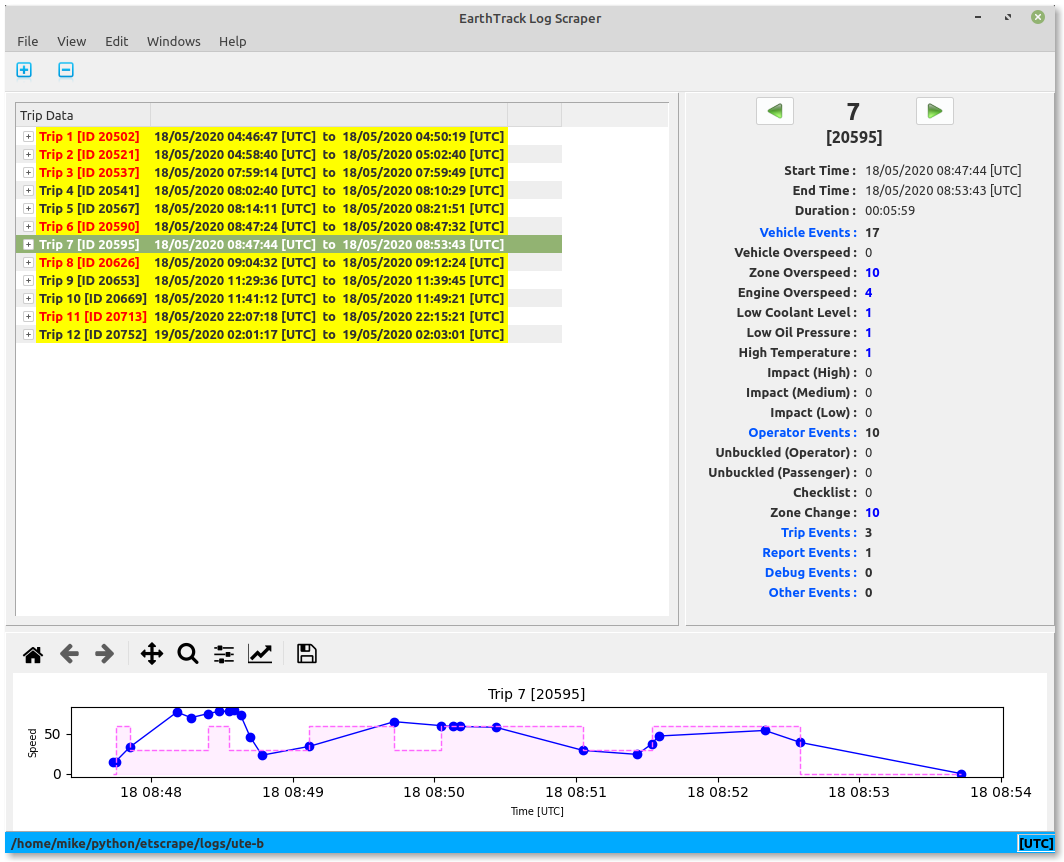
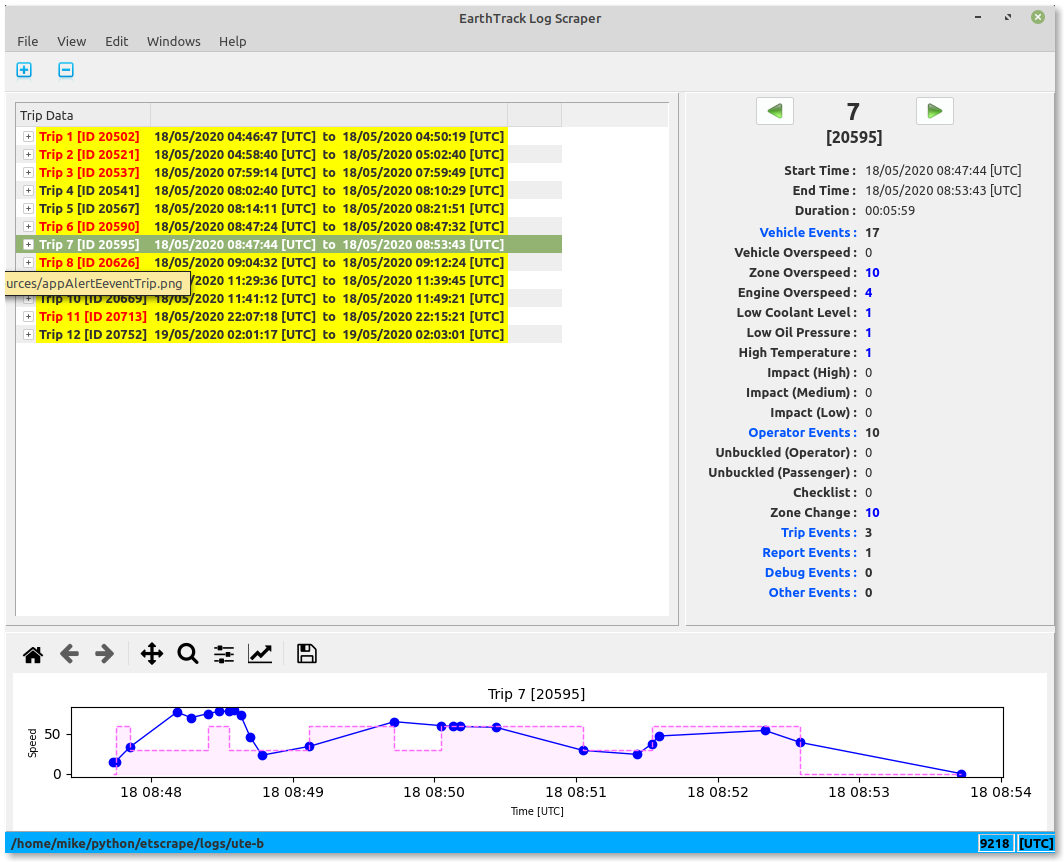
Updates.
Added controller ID.
Updates to help pages.

Changed region(s): [[0.0, 0.3016, 0.1861, 0.3619], [0.8994, 0.9652, 0.9615, 0.9954]]

diff --git a/resources/tripDataOrganisation.html b/resources/tripDataOrganisation.html
@@ -46,6 +46,9 @@ not change too often.</p>
 <p>Time on all views is presented in UTC or local time (as an offset from UTC) format depending on an application configuration parameter.
 The current setting is displayed on the right side of the application status bar at the bottom of the application window.</p>
 
+<p>The controller ID applicable to the selected trip is also shown on the application status bar at the bottom of the application window,
+which in the example illustrated is 9218.</p>
+  
 <h2>Navigating the Trip Data pane</h2>
 
 <p>The Trip Data pane is structured as a tree, with trips as the trunk. A trip can be expanded to reveal the events in the trip,

diff --git a/resources/mainWindow.html b/resources/mainWindow.html
@@ -34,7 +34,9 @@ the right pane is the Trip Summary pane and shows summary information for the cu
 
 <img src="./appOpen.png" alt="Application start">
 
-<br>
+<p>There is a blue status bar at the bottom of the application window that displays temporary messages, as well as showing the current epoch
+trip times are displayed in, and the controller ID of the current trip (empty when no trip displayed).</p>
+  
 <br>
 <a href="#top">Back to top</a>
     

diff --git a/etscrape.py b/etscrape.py
@@ -45,7 +45,6 @@ from eventsChart import *
 #
 # Make all event plots zoom and pan to the same scale if possible.
 # Check events chart operation for events without duration, for IMPACT suggest adding marker for level (low, med, hi).
-# Search for controller ID when scraping (DONE), and add to status bar. Also, add to export (DONE).
 #
 # Update change log. *** In progress ***
 # Update help file. *** In progress ***
@@ -176,8 +175,12 @@ class UI(QMainWindow):
         # Disable show events chart window.
         self.actionShowEventsChart.setEnabled(False)
 
-        self.showEpochStatus()
+        # Show trip controller ID.
+        self.showControllerStatus()
 
+        # Show epoch selection.
+        self.showEpochStatus()
+        
         # Show appliction window.
         self.show()
 
@@ -363,6 +366,18 @@ class UI(QMainWindow):
         self.statusBar().addPermanentWidget(self.epochLbl)
 
     # *******************************************
+    # Show controller ID on status bar.
+    # *******************************************
+    def showControllerStatus(self):
+            boldFont=QtGui.QFont()
+            boldFont.setBold(True)
+            self.ctrlLbl = QLabel()
+            self.ctrlLbl.setStyleSheet("color: black; ")
+            self.ctrlLbl.setFont(boldFont)
+            self.ctrlLbl.setText("{0:5s}".format(""))
+            self.statusBar().addPermanentWidget(self.ctrlLbl)
+
+    # *******************************************
     # Clear loaded trips.
     # *******************************************
     def clearTrips(self):
@@ -461,6 +476,9 @@ class UI(QMainWindow):
             # Need to get plots to starting states.
             self.eventsChart.fig.resetFigure()
             self.spdFig.resetFigure()
+
+            # Clear the controller ID as no longer relevant.
+            self.ctrlLbl.setText("{0:5s}".format(""))
 
         # Revert to the normal cursor.
         QApplication.restoreOverrideCursor()                       
@@ -655,6 +673,10 @@ class UI(QMainWindow):
         self.StartTimeLbl.setText("{0:s}".format(unixTimeString(ti.tripStart, config.TimeUTC)))
         self.EndTimeLbl.setText("{0:s}".format(unixTimeString(ti.tripEnd, config.TimeUTC)))
         self.TripDurationLbl.setText("{0:s}".format(secsToTime(ti.tripEnd - ti.tripStart)))
+
+        # Controller ID for trip.
+        self.ctrlLbl.setText("{0:5s}".format(str(ti.controllerID)))
+
         # Event counts.
         # Vehicle events.
         self.VehicleEventsLbl.setText("{0:d}".format(ti.numVehicleEvents))
@@ -1844,6 +1866,7 @@ class ChangeLogDialog(QDialog):
             "<li>Added check for invalid direction in REPORT events, i.e. 0 > x > 359.</li>" \
             "<li>Added channel number in comment field for INPUT events to make easier to find when collapsed.</li>" \
             "<li>Fixed checklist type for operator change from C to P.</li>" \
+            "<li>Added controller ID for the trip to the status bar (next to time epoch).</li>" \
             "<li>Refactored speed chart plotting to align with implementation for events chart.</li>" \
             "<li>Looked at updating plots after pan/zoom. Still require to change currently selected trip to reset plot.</li>" \
             "<li>Speed plots show time according to the current timezone. Plots regenerate if visible when time zone preference changed.</li>" \
